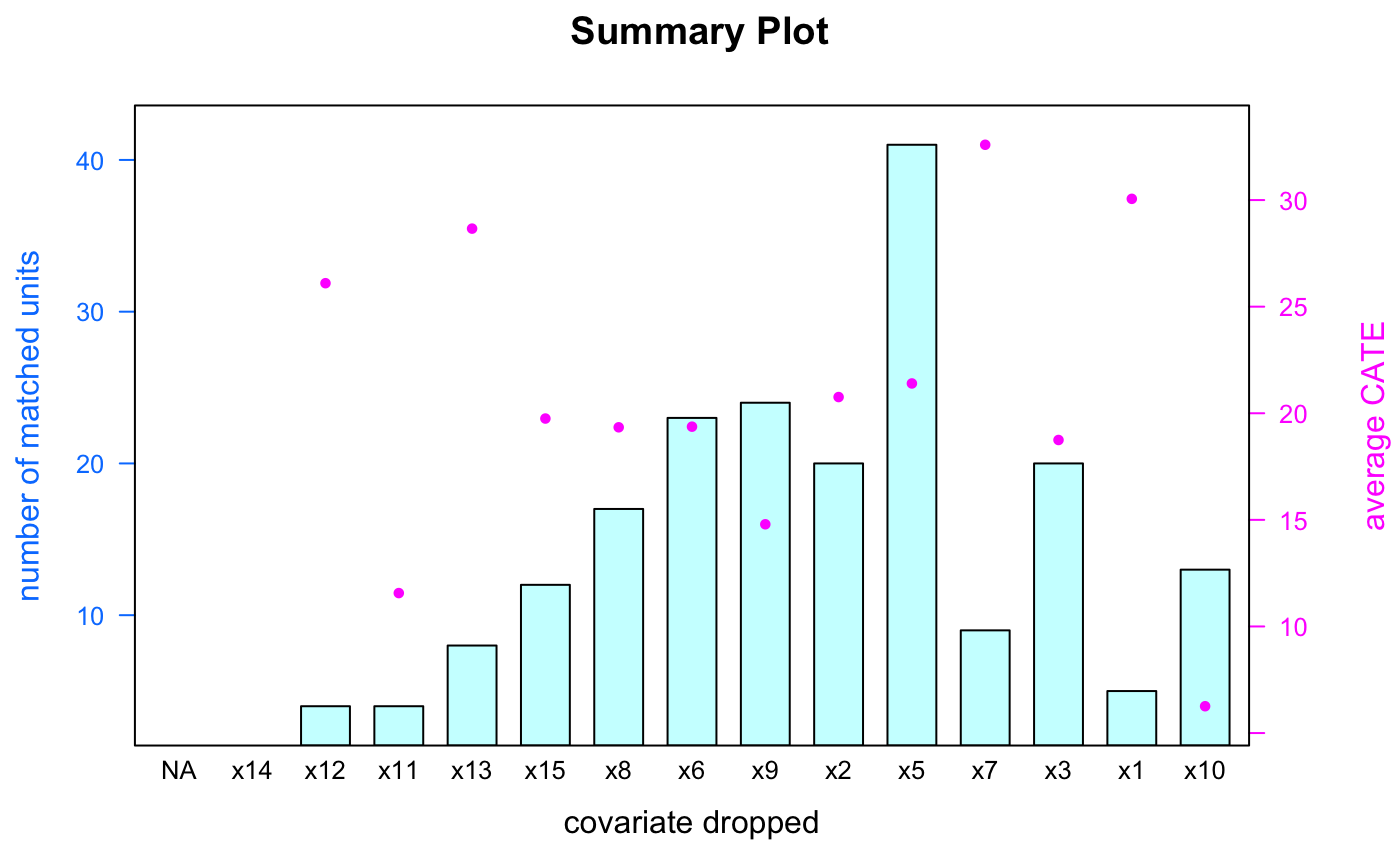
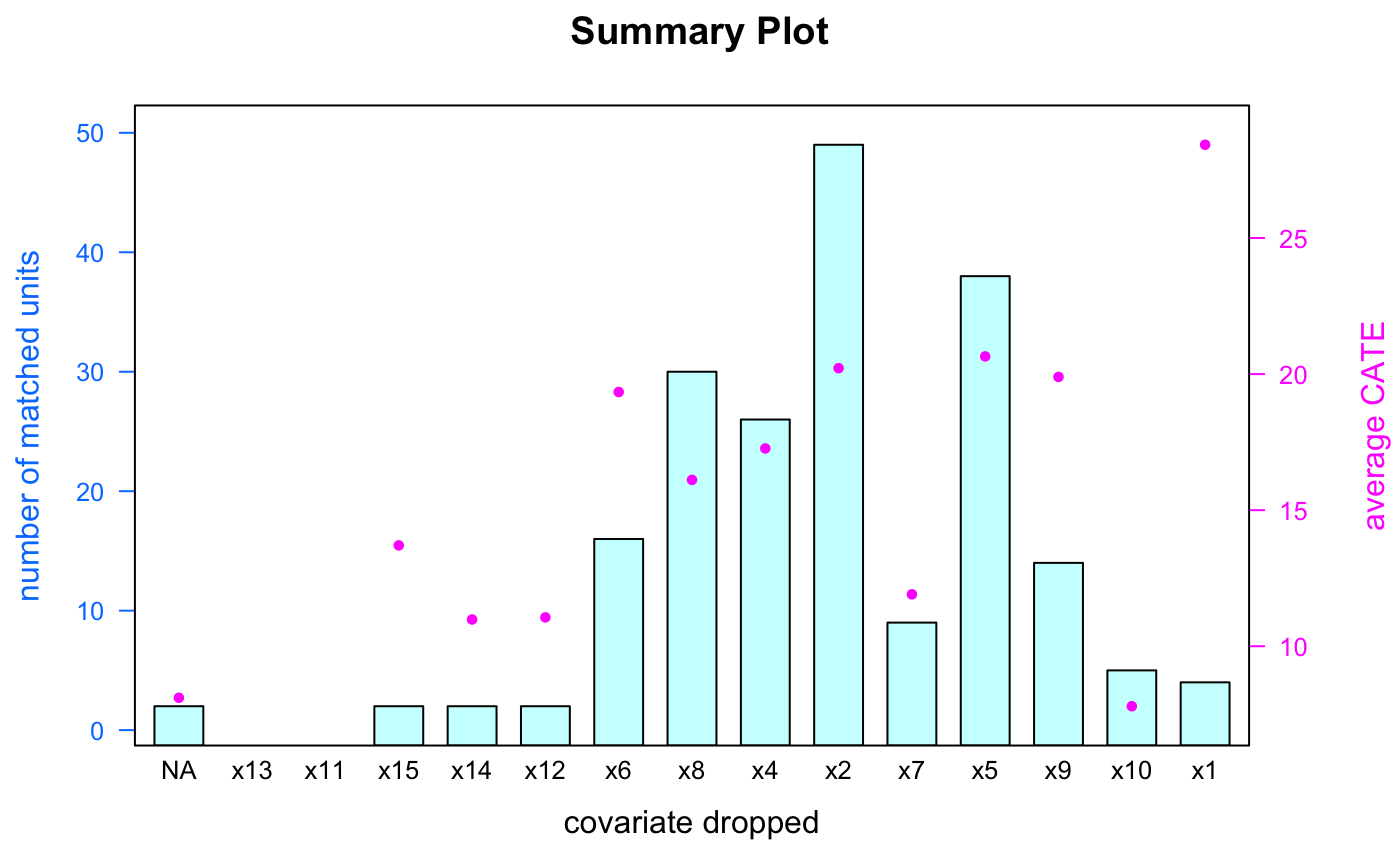
Update Vignette

diff --git a/docs/articles/Synthetic_Data.html b/docs/articles/Synthetic_Data.html
@@ -118,12 +118,12 @@ holdout &lt;-<span class="st"> </span>data </code></pre></div>
 
 <div class="sourceCode"><pre class="sourceCode r"><code class="sourceCode r"><span class="kw">head</span>(data)
 <span class="co">#&gt;   x1 x2 x3 x4 x5 x6 x7 x8 x9 x10 x11 x12 x13 x14 x15    outcome treated</span>
-<span class="co">#&gt; 1  1  1  0  0  0  1  0  0  0   1   0   0   1   0   0 -12.202454       0</span>
-<span class="co">#&gt; 2  1  1  0  1  0  0  0  1  0   1   1   1   0   0   0 -10.236941       0</span>
-<span class="co">#&gt; 3  1  0  1  0  0  1  0  1  1   0   0   0   0   0   0   2.141028       0</span>
-<span class="co">#&gt; 4  1  1  0  0  0  1  0  0  1   0   0   0   1   1   1   1.705498       0</span>
-<span class="co">#&gt; 5  0  0  1  1  0  0  0  1  1   1   1   0   1   1   1  -3.679556       0</span>
-<span class="co">#&gt; 6  1  0  0  0  1  0  0  1  0   1   1   0   0   1   1 -17.694922       0</span></code></pre></div>
+<span class="co">#&gt; 1  0  0  0  0  0  0  1  1  1   1   0   0   1   1   1  -8.366582       0</span>
+<span class="co">#&gt; 2  0  0  0  1  0  1  0  1  1   0   1   0   0   1   0   3.238260       0</span>
+<span class="co">#&gt; 3  1  0  0  1  1  1  0  1  0   1   1   1   0   1   0 -13.317859       0</span>
+<span class="co">#&gt; 4  1  1  1  1  1  1  0  1  1   0   1   1   0   0   1   6.610069       0</span>
+<span class="co">#&gt; 5  0  0  0  1  1  0  0  0  1   1   0   0   1   1   0 -18.951211       0</span>
+<span class="co">#&gt; 6  0  0  1  1  0  0  0  1  1   0   0   1   0   1   0  15.095062       0</span></code></pre></div>
 </div>
 <div id="bit-vectors-implementation" class="section level2">
 <h2 class="hasAnchor">
@@ -186,11 +186,11 @@ result_SQLite &lt;-<span class="st"> </span>FLAME<span class="op">::</span><span
 <li>Compare average treatment effect (ATE) by applying <code>ATE</code> function.</li>
 </ol>
 <div class="sourceCode"><pre class="sourceCode r"><code class="sourceCode r"><span class="kw"><a href="../reference/ATE.html">ATE</a></span>(result_bit) <span class="co">#bit vectors</span>
-<span class="co">#&gt; [1] 19.69388</span>
+<span class="co">#&gt; [1] 18.30795</span>
 <span class="kw"><a href="../reference/ATE.html">ATE</a></span>(result_PostgreSQL) <span class="co">#PostgreSQL</span>
-<span class="co">#&gt; [1] 19.69388</span>
+<span class="co">#&gt; [1] 18.30795</span>
 <span class="kw"><a href="../reference/ATE.html">ATE</a></span>(result_SQLite) <span class="co">#SQLite</span>
-<span class="co">#&gt; [1] 19.69388</span></code></pre></div>
+<span class="co">#&gt; [1] 18.30795</span></code></pre></div>
 
 <ol start="2" style="list-style-type: decimal">
 <li>Compare conditional average treatment effect (CATE) when 8 covariates are used for matching.</li>
@@ -200,43 +200,49 @@ result_SQLite &lt;-<span class="st"> </span>FLAME<span class="op">::</span><span
 </ol>
 <div class="sourceCode"><pre class="sourceCode r"><code class="sourceCode r"><span class="kw"><a href="../reference/CATE.html">CATE</a></span>(result_bit,<span class="dv">8</span>) <span class="co">#bit vectors</span>
 <span class="co">#&gt;    x1 x2 x3 x4 x5 x7 x9 x10    effect size</span>
-<span class="co">#&gt; 1   0  0  0  0  0  0  0   0 -2.694958    2</span>
-<span class="co">#&gt; 2   0  0  1  1  1  0  0   0 16.804994    2</span>
-<span class="co">#&gt; 3   0  1  0  0  1  0  0   0 15.071881    2</span>
-<span class="co">#&gt; 4   0  1  0  1  1  1  1   0 24.503315    2</span>
-<span class="co">#&gt; 5   0  1  1  0  1  0  1   0 18.497141    2</span>
-<span class="co">#&gt; 6   0  1  1  1  1  0  0   1 41.590189    2</span>
-<span class="co">#&gt; 7   1  0  0  0  0  0  0   0  3.231876    2</span>
-<span class="co">#&gt; 8   1  0  1  1  0  0  0   0 23.048706    2</span>
-<span class="co">#&gt; 9   1  1  0  0  0  0  0   0  6.602746    3</span>
-<span class="co">#&gt; 10  1  1  0  0  0  0  1   0  6.754269    2</span>
-<span class="co">#&gt; 11  1  1  1  1  1  0  0   1 66.053535    2</span>
+<span class="co">#&gt; 1   0  0  0  0  0  1  1   0  8.531722    3</span>
+<span class="co">#&gt; 2   0  0  0  0  1  1  0   1  1.749998    2</span>
+<span class="co">#&gt; 3   0  0  0  1  0  0  1   0  1.495456    3</span>
+<span class="co">#&gt; 4   0  0  0  1  0  1  1   0  8.733539    2</span>
+<span class="co">#&gt; 5   0  0  1  0  1  0  1   1  8.474515    3</span>
+<span class="co">#&gt; 6   0  0  1  1  0  0  0   1 14.137201    2</span>
+<span class="co">#&gt; 7   0  1  0  1  1  0  0   0 16.902508    2</span>
+<span class="co">#&gt; 8   1  0  0  1  0  1  0   0  6.512445    2</span>
+<span class="co">#&gt; 9   1  0  1  0  0  0  0   0  5.302122    3</span>
+<span class="co">#&gt; 10  1  1  0  0  0  1  0   0  7.876504    2</span>
+<span class="co">#&gt; 11  1  1  0  1  1  0  0   0 40.408271    2</span>
+<span class="co">#&gt; 12  1  1  1  1  0  0  0   1 43.345550    2</span>
+<span class="co">#&gt; 13  1  1  1  1  1  0  1   1 66.351172    2</span>
 <span class="kw"><a href="../reference/CATE.html">CATE</a></span>(result_PostgreSQL,<span class="dv">8</span>) <span class="co">#PostgreSQL</span>
 <span class="co">#&gt;    x1 x2 x3 x4 x5 x7 x9 x10    effect size</span>
-<span class="co">#&gt; 1   0  0  0  0  0  0  0   0 -2.694958    2</span>
-<span class="co">#&gt; 2   0  0  1  1  1  0  0   0 16.804994    2</span>
-<span class="co">#&gt; 3   0  1  0  0  1  0  0   0 15.071881    2</span>
-<span class="co">#&gt; 4   0  1  0  1  1  1  1   0 24.503315    2</span>
-<span class="co">#&gt; 5   0  1  1  0  1  0  1   0 18.497141    2</span>
-<span class="co">#&gt; 6   0  1  1  1  1  0  0   1 41.590189    2</span>
-<span class="co">#&gt; 7   1  0  0  0  0  0  0   0  3.231876    2</span>
-<span class="co">#&gt; 8   1  0  1  1  0  0  0   0 23.048706    2</span>
-<span class="co">#&gt; 9   1  1  0  0  0  0  0   0  6.602746    3</span>
-<span class="co">#&gt; 10  1  1  0  0  0  0  1   0  6.754269    2</span>
-<span class="co">#&gt; 11  1  1  1  1  1  0  0   1 66.053535    2</span>
+<span class="co">#&gt; 1   0  0  0  0  0  1  1   0  8.531722    3</span>
+<span class="co">#&gt; 2   0  0  0  0  1  1  0   1  1.749998    2</span>
+<span class="co">#&gt; 3   0  0  0  1  0  0  1   0  1.495456    3</span>
+<span class="co">#&gt; 4   0  0  0  1  0  1  1   0  8.733539    2</span>
+<span class="co">#&gt; 5   0  0  1  0  1  0  1   1  8.474515    3</span>
+<span class="co">#&gt; 6   0  0  1  1  0  0  0   1 14.137201    2</span>
+<span class="co">#&gt; 7   0  1  0  1  1  0  0   0 16.902508    2</span>
+<span class="co">#&gt; 8   1  0  0  1  0  1  0   0  6.512445    2</span>
+<span class="co">#&gt; 9   1  0  1  0  0  0  0   0  5.302122    3</span>
+<span class="co">#&gt; 10  1  1  0  0  0  1  0   0  7.876504    2</span>
+<span class="co">#&gt; 11  1  1  0  1  1  0  0   0 40.408271    2</span>
+<span class="co">#&gt; 12  1  1  1  1  0  0  0   1 43.345550    2</span>
+<span class="co">#&gt; 13  1  1  1  1  1  0  1   1 66.351172    2</span>
 <span class="kw"><a href="../reference/CATE.html">CATE</a></span>(result_SQLite,<span class="dv">8</span>) <span class="co">#SQLite</span>
 <span class="co">#&gt;    x1 x2 x3 x4 x5 x7 x9 x10    effect size</span>
-<span class="co">#&gt; 1   0  0  0  0  0  0  0   0 -2.694958    2</span>
-<span class="co">#&gt; 2   0  0  1  1  1  0  0   0 16.804994    2</span>
-<span class="co">#&gt; 3   0  1  0  0  1  0  0   0 15.071881    2</span>
-<span class="co">#&gt; 4   0  1  0  1  1  1  1   0 24.503315    2</span>
-<span class="co">#&gt; 5   0  1  1  0  1  0  1   0 18.497141    2</span>
-<span class="co">#&gt; 6   0  1  1  1  1  0  0   1 41.590189    2</span>
-<span class="co">#&gt; 7   1  0  0  0  0  0  0   0  3.231876    2</span>
-<span class="co">#&gt; 8   1  0  1  1  0  0  0   0 23.048706    2</span>
-<span class="co">#&gt; 9   1  1  0  0  0  0  0   0  6.602746    3</span>
-<span class="co">#&gt; 10  1  1  0  0  0  0  1   0  6.754269    2</span>
-<span class="co">#&gt; 11  1  1  1  1  1  0  0   1 66.053535    2</span></code></pre></div>
+<span class="co">#&gt; 1   0  0  0  0  0  1  1   0  8.531722    3</span>
+<span class="co">#&gt; 2   0  0  0  0  1  1  0   1  1.749998    2</span>
+<span class="co">#&gt; 3   0  0  0  1  0  0  1   0  1.495456    3</span>
+<span class="co">#&gt; 4   0  0  0  1  0  1  1   0  8.733539    2</span>
+<span class="co">#&gt; 5   0  0  1  0  1  0  1   1  8.474515    3</span>
+<span class="co">#&gt; 6   0  0  1  1  0  0  0   1 14.137201    2</span>
+<span class="co">#&gt; 7   0  1  0  1  1  0  0   0 16.902508    2</span>
+<span class="co">#&gt; 8   1  0  0  1  0  1  0   0  6.512445    2</span>
+<span class="co">#&gt; 9   1  0  1  0  0  0  0   0  5.302122    3</span>
+<span class="co">#&gt; 10  1  1  0  0  0  1  0   0  7.876504    2</span>
+<span class="co">#&gt; 11  1  1  0  1  1  0  0   0 40.408271    2</span>
+<span class="co">#&gt; 12  1  1  1  1  0  0  0   1 43.345550    2</span>
+<span class="co">#&gt; 13  1  1  1  1  1  0  1   1 66.351172    2</span></code></pre></div>
 
 <ol start="2" style="list-style-type: lower-alpha">
 <li>Apply <code>CATE_plot</code> to visualize CATE of all matched groups in boxplot.</li>
@@ -248,7 +254,7 @@ result_SQLite &lt;-<span class="st"> </span>FLAME<span class="op">::</span><span
 <li>Apply <code>CATE_AVG</code> to compute average CATE. Note that average CATE is the weighted average of all matched groups.</li>
 </ol>
 <div class="sourceCode"><pre class="sourceCode r"><code class="sourceCode r"><span class="kw"><a href="../reference/CATE_AVG.html">CATE_AVG</a></span>(result_bit,<span class="dv">8</span>) 
-<span class="co">#&gt; [1] 19.37088</span></code></pre></div>
+<span class="co">#&gt; [1] 16.11486</span></code></pre></div>
 </div>
 <div id="summary-visualization" class="section level2">
 <h2 class="hasAnchor">

diff --git a/docs/reference/FLAME_bit.html b/docs/reference/FLAME_bit.html
@@ -6,7 +6,7 @@
 <meta http-equiv="X-UA-Compatible" content="IE=edge">
 <meta name="viewport" content="width=device-width, initial-scale=1.0">
 
-<title>Bit vectors implementation — FLAME_bit • FLAME</title>
+<title>bit vectors implementation — FLAME_bit • FLAME</title>
 
 <!-- jquery -->
 <script src="https://code.jquery.com/jquery-3.1.0.min.js" integrity="sha384-nrOSfDHtoPMzJHjVTdCopGqIqeYETSXhZDFyniQ8ZHcVy08QesyHcnOUpMpqnmWq" crossorigin="anonymous"></script>
@@ -30,7 +30,7 @@
 
 
 
-<meta property="og:title" content="Bit vectors implementation — FLAME_bit" />
+<meta property="og:title" content="bit vectors implementation — FLAME_bit" />
 
 <meta property="og:description" content="FLAME_bit applies FLAME matching algorithm based on bit vectors
 implementation." />
@@ -110,7 +110,7 @@ implementation." />
 <div class="row">
   <div class="col-md-9 contents">
     <div class="page-header">
-    <h1>Bit vectors implementation</h1>
+    <h1>bit vectors implementation</h1>
     <small class="dont-index">Source: <a href='https://github.com/chiarui424/FLAME/blob/master/R/FLAMEbit.R'><code>R/FLAMEbit.R</code></a></small>
     <div class="hidden name"><code>FLAME_bit.Rd</code></div>
     </div>

diff --git a/docs/reference/index.html b/docs/reference/index.html
@@ -171,7 +171,7 @@
         <td>
           <p><code><a href="FLAME_bit.html">FLAME_bit()</a></code> </p>
         </td>
-        <td><p>Bit vectors implementation</p></td>
+        <td><p>bit vectors implementation</p></td>
       </tr><tr>
         
         <td>
